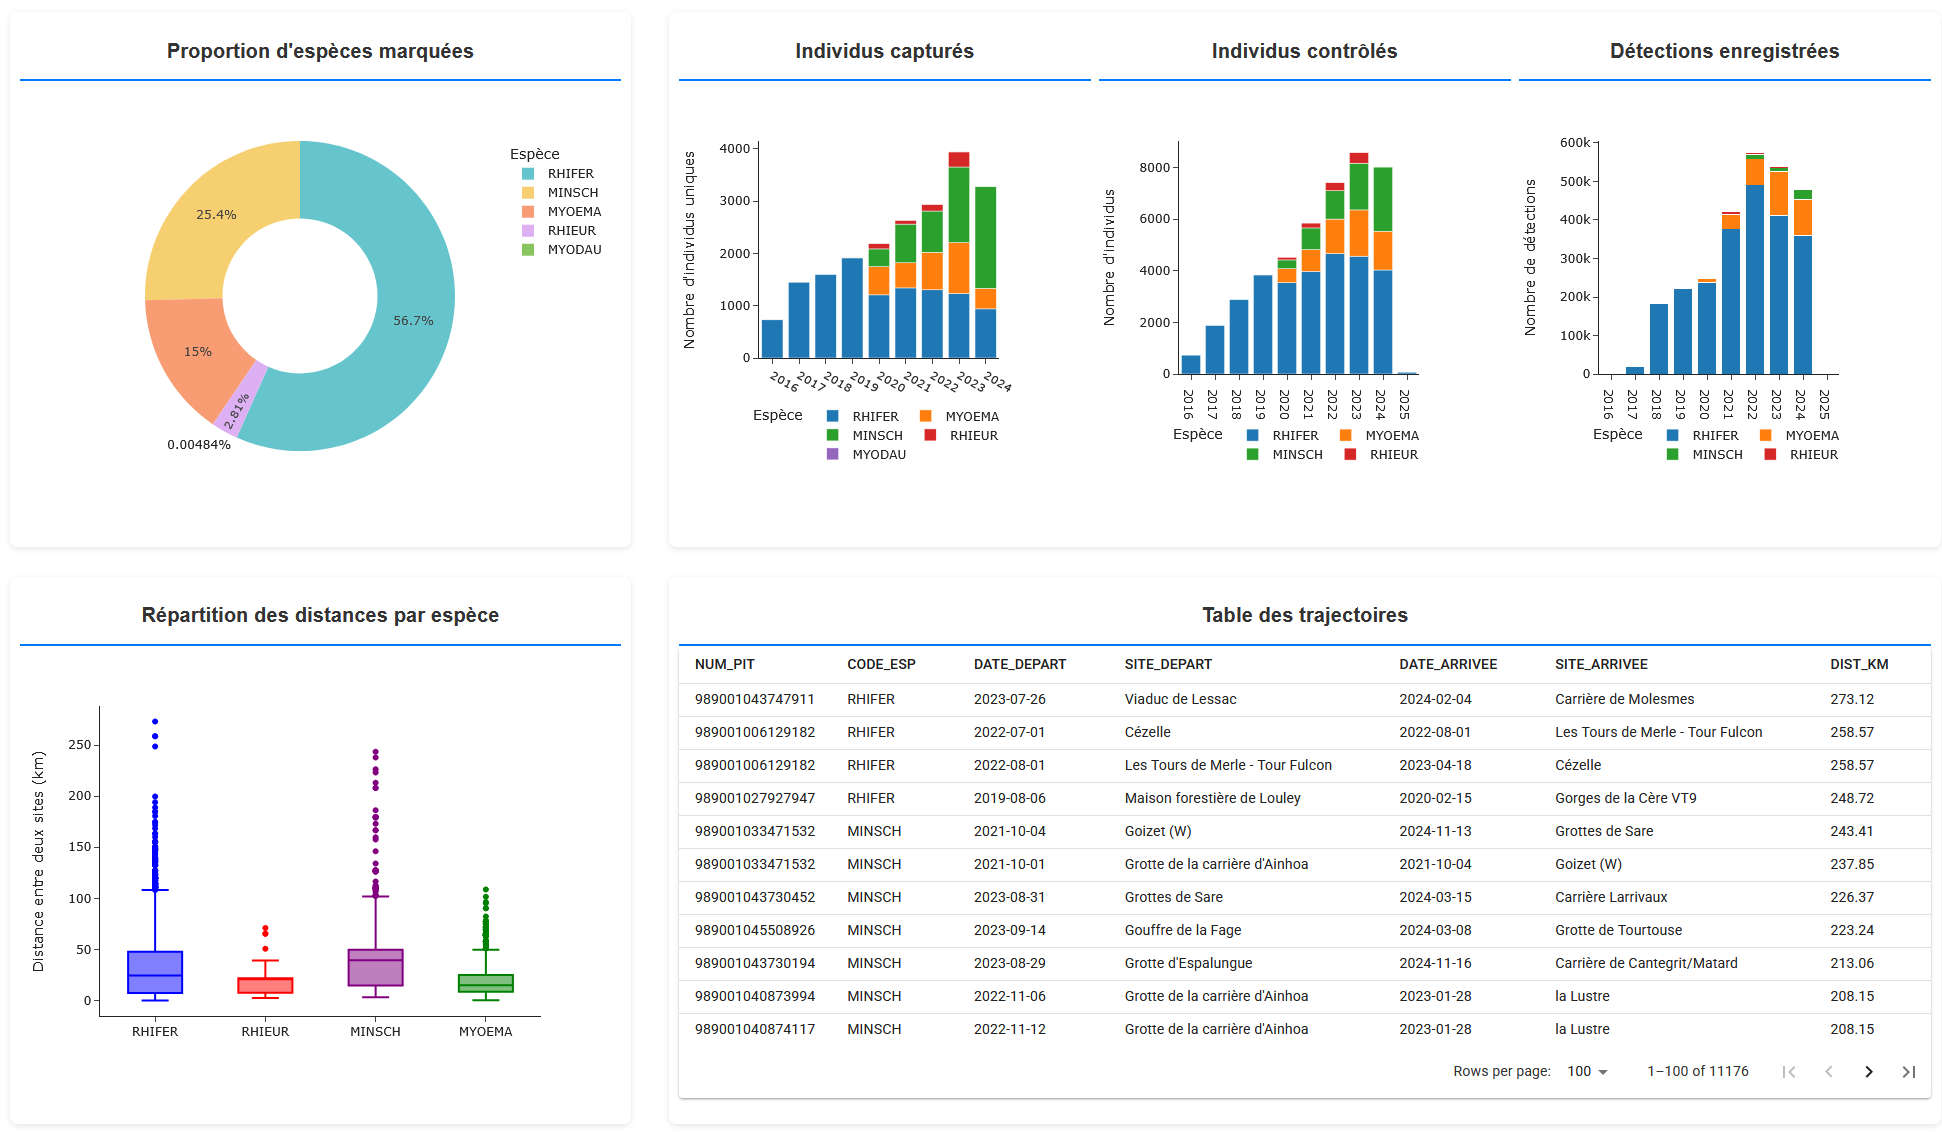
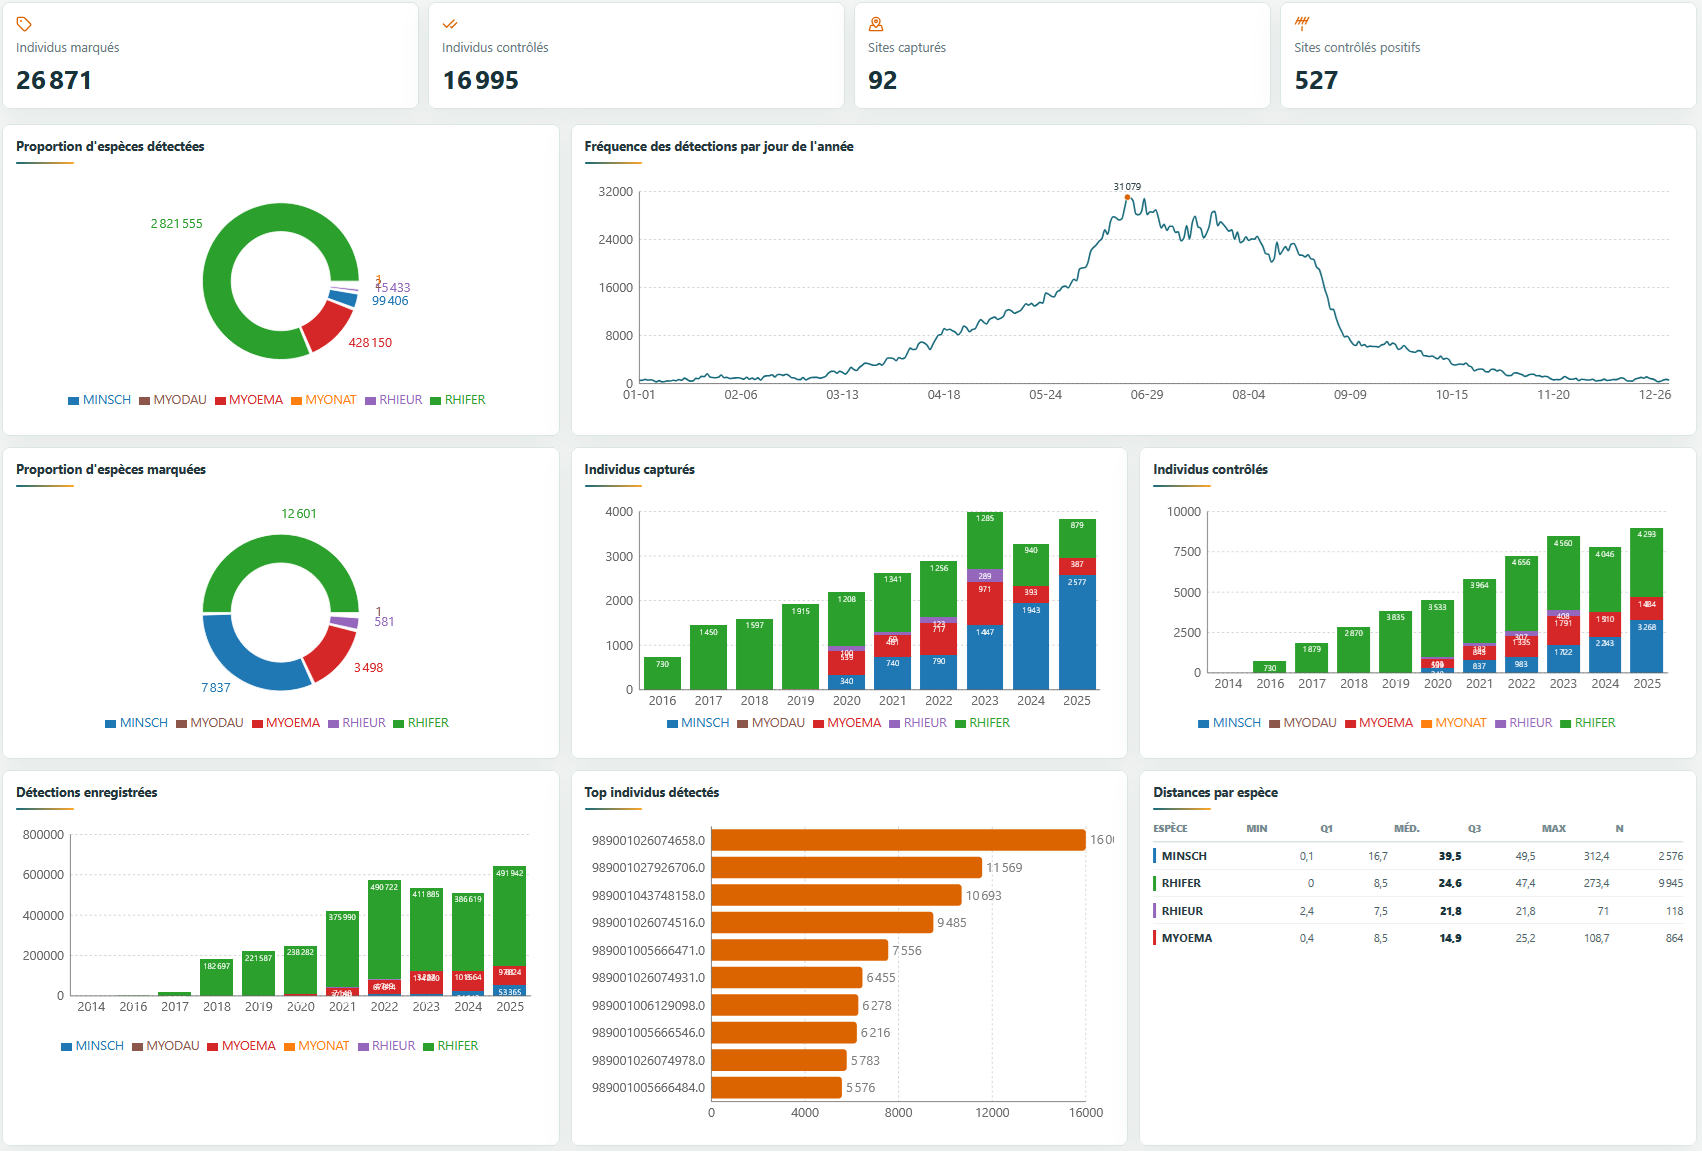
Update dashboard_cmr

diff --git a/pages/dashboard_cmr.html b/pages/dashboard_cmr.html
@@ -60,7 +60,7 @@
 							<a href="https://github.com/a-langlais/dashboard-bat-CMR/blob/main/README.md">
 								<i class="fa-solid fa-book"></i> Documentation
 							</a><br>
-							<a href="https://huggingface.co/spaces/a-langlais/ccpna-taipy-dashboard">
+							<a href="https://huggingface.co/spaces/a-langlais/cmr-app">
 								<i class="fa-solid fa-gear"></i> Application web
 							</a><br>
 							<a href="../files/ALanglais_CMR_RCNA_2024_v3.pdf">
@@ -85,27 +85,27 @@
                 <p>Les associations ayant des moyens limités pour des causes justes, j'interviens bénévolement dans le déploiement d'une plateforme de visualisation de l'important jeu de données (>3M) généré par le programme Chiroptères Cavernicoles Prioritaires de Nouvelle-Aquitaine porté par France Nature Environnement Nouvelle-Aquitaine. Un défi alliant série temporelle, données géographiques et trajectoires d'individus déployé par conteneurisation avec Docker sur la plateforme Hugging-Face.</p>
 				
 				<h3>Contexte du projet</h3>
-				<p>Porté par France Nature Environnement Nouvelle-Aquitaine, le projet <a href="https://vimeo.com/435059221/7a3f18d6ba">Chiroptères Cavernicoles Prioritaires de Nouvelle-Aquitaine</a> (CCPNA) est un programme à large échelle démarré en 2016 dans l’objectif d’étudier plusieurs espèces de chauves-souris afin d’aborder quatre thématiques : </p>
+				<p>Porté par France Nature Environnement Nouvelle-Aquitaine, le projet <a href="https://vimeo.com/435059221/7a3f18d6ba">Chiroptères Cavernicoles Prioritaires de Nouvelle-Aquitaine</a> (CCPNA) est un programme à large échelle démarré en 2016 dans l'objectif d'étudier plusieurs espèces de chauves-souris afin d'aborder quatre thématiques : </p>
                     <ul>
-                        <li>La <b>génétique</b>, afin de définir les contours des populations et mettre en évidence d’éventuels freins aux échanges génétiques ;</li>
-                        <li>L’<b>écotoxicologie</b>, pour tenter d’aborder à quels polluants les espèces peuvent être exposées ;</li>
-                        <li>L’<b>épidémiologie</b>, ou l’étude de la circulation des virus, permet de mettre en lumière d’éventuels risques d’exposition pour ces dernières comme de comprendre des mécanismes de circulation couplés au paysage ou à leurs mœurs ;</li>
-                        <li>Les <b>déplacements</b>, avec la pose de puces sous-cutanées, RFID ou Pit-tag, inertes avec un identifiant unique chez les Grands Rhinolophes, Murin à oreilles échancrées et le Minioptère de Schreibers. Les contrôles d’individus marqués permettent de retracer leurs déplacements. À terme, ces données pourraient permettre d’établir des taux de survie et de comprendre comment les individus utilisent les différents connus au cours de leur vie.</li>
+                        <li>La <b>génétique</b>, afin de définir les contours des populations et mettre en évidence d'éventuels freins aux échanges génétiques ;</li>
+                        <li>L'<b>écotoxicologie</b>, pour tenter d'aborder à quels polluants les espèces peuvent être exposées ;</li>
+                        <li>L'<b>épidémiologie</b>, ou l'étude de la circulation des virus, permet de mettre en lumière d'éventuels risques d'exposition pour ces dernières comme de comprendre des mécanismes de circulation couplés au paysage ou à leurs mœurs ;</li>
+                        <li>Les <b>déplacements</b>, avec la pose de puces sous-cutanées, RFID ou Pit-tag, inertes avec un identifiant unique chez les Grands Rhinolophes, Murin à oreilles échancrées et le Minioptère de Schreibers. Les contrôles d'individus marqués permettent de retracer leurs déplacements. À terme, ces données pourraient permettre d'établir des taux de survie et de comprendre comment les individus utilisent les différents connus au cours de leur vie.</li>
                     </ul>
-                <p>Pour ce dernier point, plus d’une quarantaine de sites sur l’ensemble de la région est équipé d’une antenne automatique permettant de détecter 24/7 le passage d’un individu marqué, générant un nombre très important de données jusqu’à aujourd’hui (>3M). Sans compter de nombreux sites supplémentaires qui sont suivis avec une antenne éphémère à différents moments de l’année.</p>
-                <p>Les associations ayant des ressources limitées pour l’analyse de ces jeux de données complexes, <b>je réalise bénévolement les études de ce projet afin de permettre aux associations protectrices de la nature et de l’environnement (APNE) d’améliorer leurs connaissances sur ces espèces protégées et permettre de prendre les meilleures décision pour leur conservation</b>.</p>
+                <p>Pour ce dernier point, plus d'une quarantaine de sites sur l'ensemble de la région est équipé d'une antenne automatique permettant de détecter 24/7 le passage d'un individu marqué, générant un nombre très important de données jusqu'à aujourd'hui (>3M). Sans compter de nombreux sites supplémentaires qui sont suivis avec une antenne éphémère à différents moments de l'année.</p>
+                <p>Les associations ayant des ressources limitées pour l'analyse de ces jeux de données complexes, <b>je réalise bénévolement les études de ce projet afin de permettre aux associations protectrices de la nature et de l'environnement (APNE) d'améliorer leurs connaissances sur ces espèces protégées et permettre de prendre les meilleures décision pour leur conservation</b>.</p>
 				
 				<h3>Etude démographique et spatio-temporelle</h3>
-				<p>L'analyse repose donc sur l'exploitation des données de marquage et de recapture. Les <b>modèles Cormack-Jolly-Seber</b> ont été mobilisés pour estimer simultanément deux indicateurs fondamentaux : le taux de survie apparent (Φ), qui traduit la probabilité qu’un individu marqué soit encore présent l’année suivante, et le taux de recapture (p), indicateur de la probabilité de détecter un individu survivant. </p>
-				<p>Ces estimations reposent sur un jeu de données soigneusement harmonisé afin de réduire les biais, notamment en uniformisant la définition des classes d’âge, en standardisant la codification des espèces et en garantissant la cohérence temporelle et spatiale des données.</p>
-				<p>La mise en place de métriques complémentaires, telles que le <b>nombre moyen de passages</b> et le <b>temps de résidence</b>, permet d’aller au-delà des simples estimations démographiques. Ces mesures offrent un aperçu de l’intensité d’utilisation des gîtes, de la mobilité intra-saisonnière et de la variation interannuelle des comportements. Elles constituent ainsi une base solide pour relier les dynamiques observées.</p>
+				<p>L'analyse repose donc sur l'exploitation des données de marquage et de recapture. Les <b>modèles Cormack-Jolly-Seber</b> ont été mobilisés pour estimer simultanément deux indicateurs fondamentaux : le taux de survie apparent (Φ), qui traduit la probabilité qu'un individu marqué soit encore présent l'année suivante, et le taux de recapture (p), indicateur de la probabilité de détecter un individu survivant. </p>
+				<p>Ces estimations reposent sur un jeu de données soigneusement harmonisé afin de réduire les biais, notamment en uniformisant la définition des classes d'âge, en standardisant la codification des espèces et en garantissant la cohérence temporelle et spatiale des données.</p>
+				<p>La mise en place de métriques complémentaires, telles que le <b>nombre moyen de passages</b> et le <b>temps de résidence</b>, permet d'aller au-delà des simples estimations démographiques. Ces mesures offrent un aperçu de l'intensité d'utilisation des gîtes, de la mobilité intra-saisonnière et de la variation interannuelle des comportements. Elles constituent ainsi une base solide pour relier les dynamiques observées.</p>
 
 				<center>
 					<img src="../pages/images/dashboard_cmr_panels.png" alt="cmr map" width="100%">
                     <p class="caption">Extrait de l'onglet "Statistiques" qui donne un aperçu des métriques descriptives disponibles dans le tableau de bord.</p>
 				</center>
 
-				<p>En complément, une analyse spatio-temporelle a permis de caractériser les trajectoires individuelles à partir des séquences de recaptures. Les distances inter-sites ont été calculées en utilisant la <b>distance euclidienne</b> entre les coordonnées GPS des sites de départ et d’arrivée. Les trajectoires ont été agrégées par espèce, sexe et classe d’âge afin de détecter des patterns migratoires ou saisonniers, et de mesurer l’ampleur des déplacements. Par ailleurs, la <b>fidélité aux sites</b> a été estimée en calculant la proportion d’individus revenant sur un site donné d’une année à l’autre, permettant d’évaluer la stabilité des colonies et la connectivité entre gîtes.</p>
+				<p>En complément, une analyse spatio-temporelle a permis de caractériser les trajectoires individuelles à partir des séquences de recaptures. Les distances inter-sites ont été calculées en utilisant la <b>distance euclidienne</b> entre les coordonnées GPS des sites de départ et d'arrivée. Les trajectoires ont été agrégées par espèce, sexe et classe d'âge afin de détecter des patterns migratoires ou saisonniers, et de mesurer l'ampleur des déplacements. Par ailleurs, la <b>fidélité aux sites</b> a été estimée en calculant la proportion d'individus revenant sur un site donné d'une année à l'autre, permettant d'évaluer la stabilité des colonies et la connectivité entre gîtes.</p>
 
 				<center>
 					<img src="../pages/images/dashboard_cmr_map.png" alt="cmr map" width="80%">
@@ -113,9 +113,9 @@
 				</center>
 
 				<h3>Accessibilité aux acteurs-décideurs</h3>
-				<p>Afin que les APNE puissent explorer leurs données pour communiquer, et prendre des décisions de conservation importantes, j’ai travaillé sur un <b>tableau de bord interactif</b> en ligne pour traiter géographiquement et statistiquement l’ensemble des données d’antennes, permettant de visualiser rapidement les métriques de monitoring des individus, les trajectoires entre les sites et les connexions entre les sites. </p>
-				<p>Pour ce faire, ce dashboard est composé de quatre onglets, avec une présentation du projet, une carte interactive permettant de visualiser les trajectoires avec de nombreux filtres, un diagramme de Gantt pour visualiser la phénologie temporelle des individus en fonction des sites et enfin un onglet avec un ensemble de métriques descriptives.</p>
-				<p>Tous les graphiques sont conçus afin de permettre une interactivité avec les utilisateurs. La plateforme est pour le moment déployée sur <a href="https://huggingface.co/spaces/a-langlais/ccpna-taipy-dashboard">Hugging-Face</a> via un container <code>Docker</code>.</p>
+				<p>Afin que les APNE puissent explorer leurs données pour communiquer, et prendre des décisions de conservation importantes, j'ai travaillé sur un <b>tableau de bord interactif</b> en ligne pour traiter géographiquement et statistiquement l'ensemble des données d'antennes, permettant de visualiser rapidement les métriques de monitoring des individus, les trajectoires entre les sites et les connexions entre les sites. </p>
+				<p>Pour ce faire, ce tableau de bord est composé de cinq onglets, avec une présentation du projet, une carte interactive permettant de visualiser les trajectoires avec de nombreux filtres, un diagramme de Gantt pour visualiser la phénologie temporelle des individus en fonction des sites, un onglet avec un ensemble de métriques descriptives du projet et enfin, des métriques et indicateurs descriptifs par site.</p>
+				<p>Tous les graphiques sont conçus afin de permettre une interactivité avec les utilisateurs. La plateforme est pour le moment déployée sur <a href="https://huggingface.co/spaces/a-langlais/cmr-app">Hugging-Face</a> via un container <code>Docker</code>.</p>
 				<p>Pour le moment, les associations continuent d'utiliser des supports *.csv pour la gestion de leurs données, la plateforme permettra de communiquer avec une base de données qui améliorera la sécurité et le traitement des données. <b>Le projet génère actuellement plus de 500 000 données par an et dépasse les 3M de données en 2024</b>.</p>
 				<p>Suite à une invitation du Plan Régional d'Action Chiroptères, <b>ce projet bénévole ainsi que mes analyses statistiques ont fait l'objet d'une présentation aux Rencontres Chiroptères Régionales de 2024 à Limoges</b>.</p>				
 			</article>